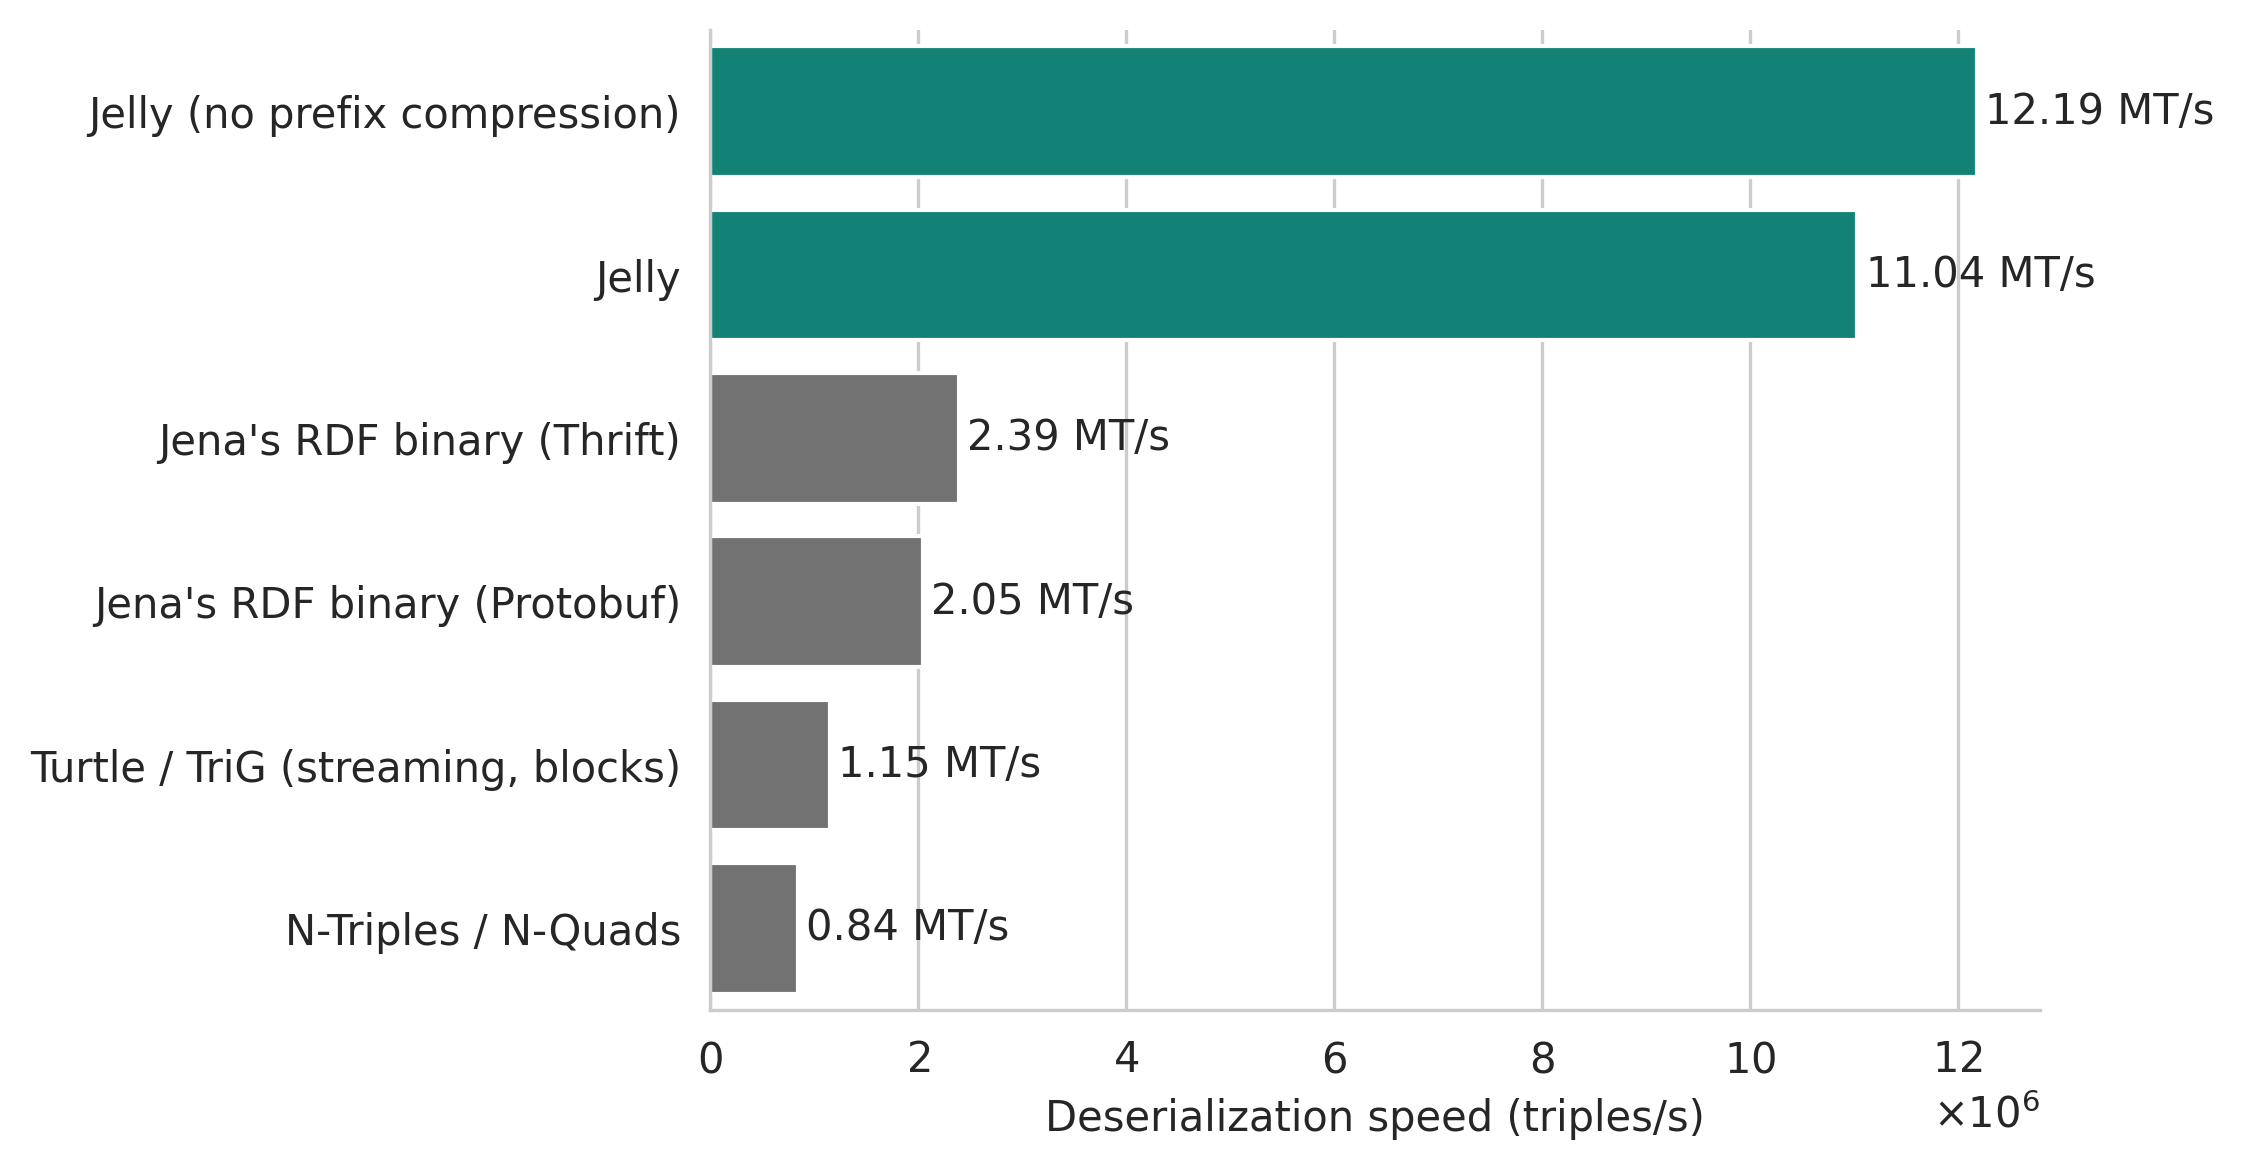
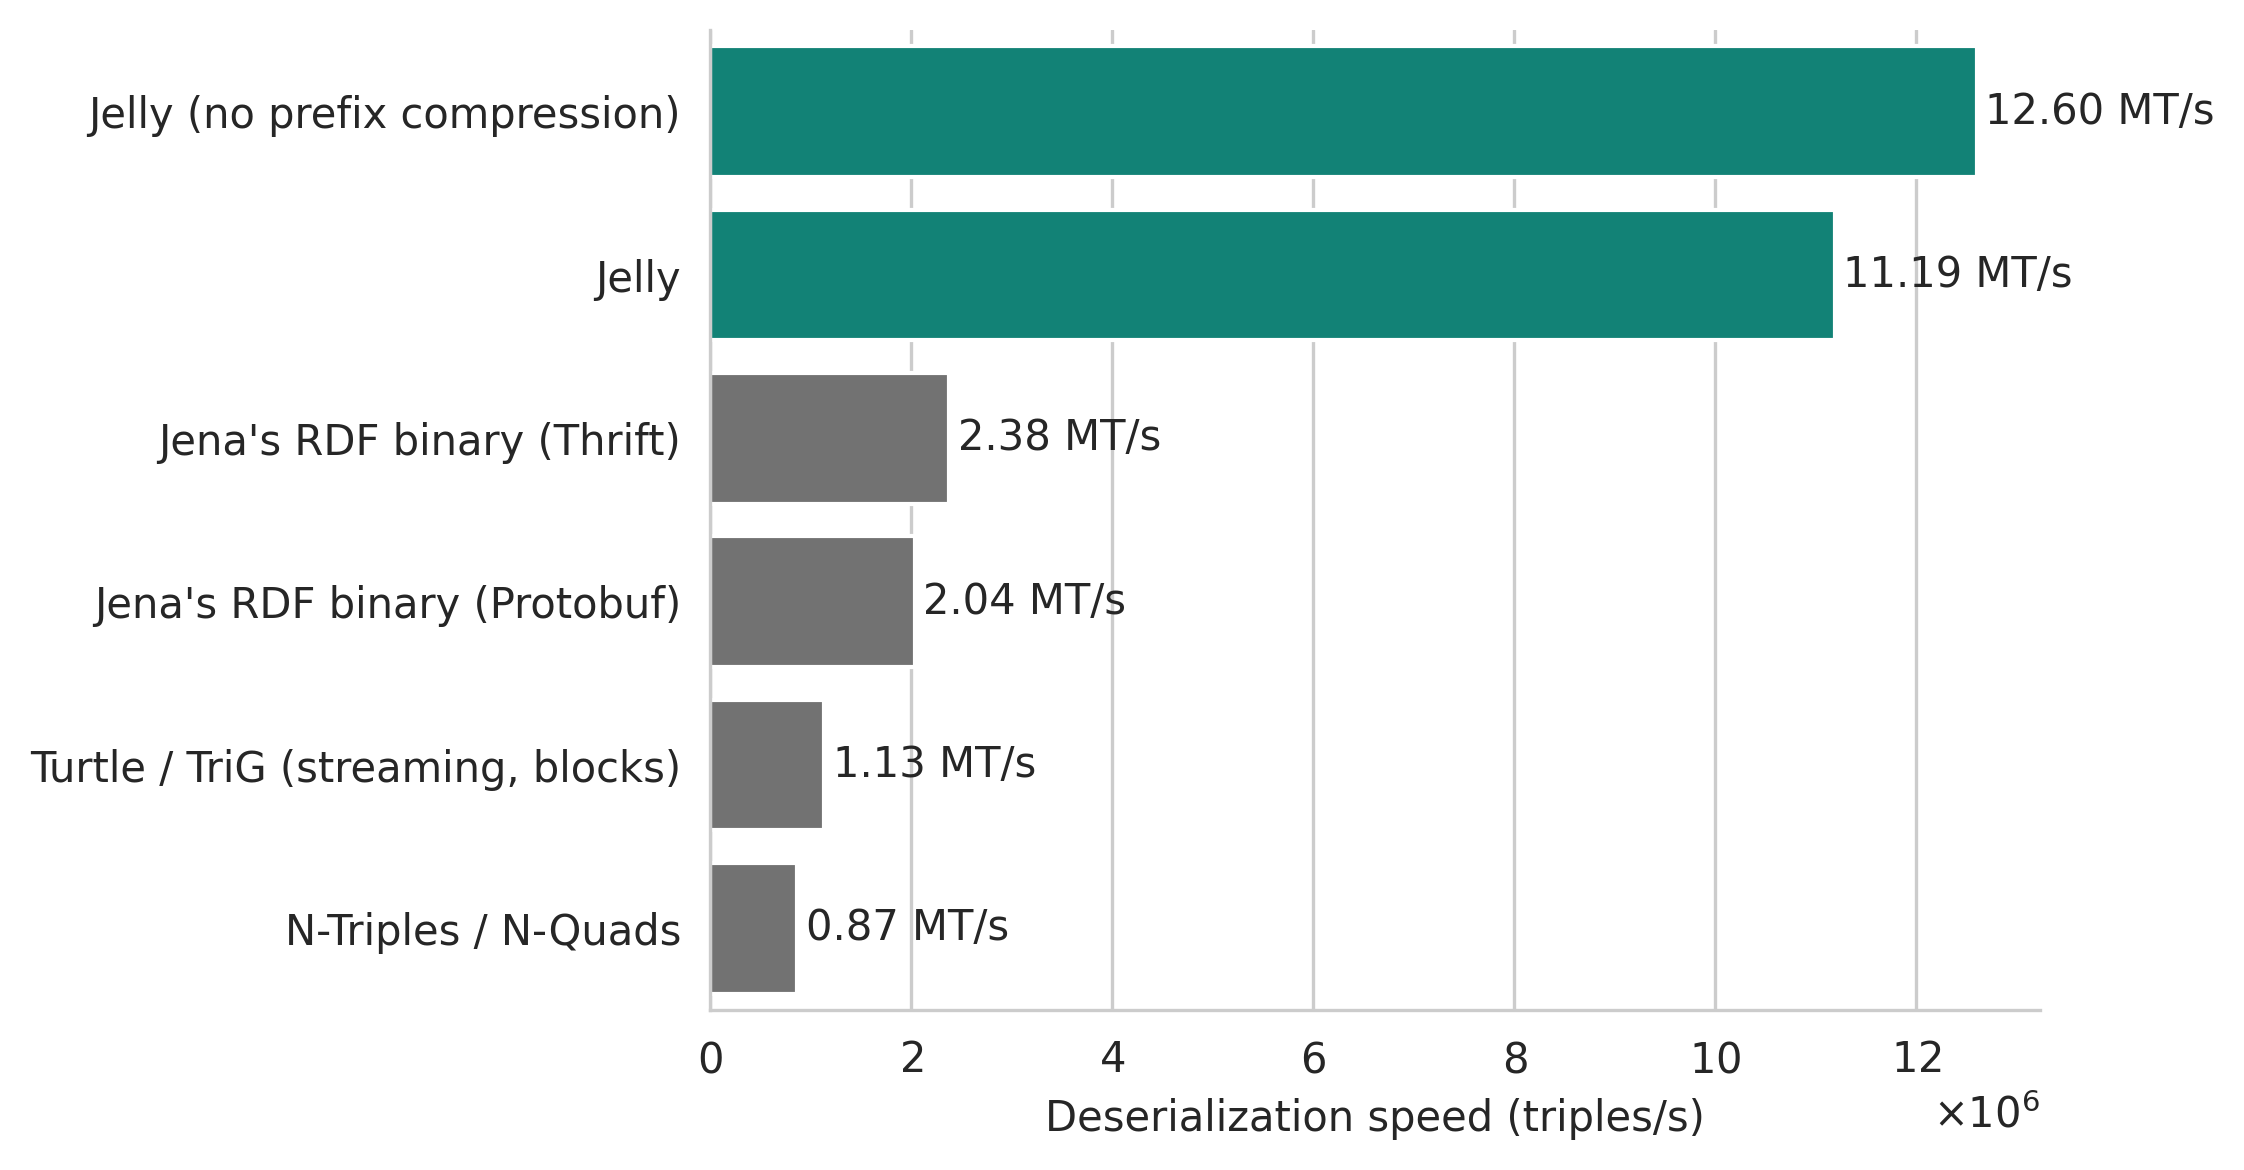
Updated benchmark results for Jelly-JVM 2.7.0

diff --git a/docs/performance/index.md b/docs/performance/index.md
@@ -15,31 +15,31 @@ If you are only interested in parsing/writing a single graph or dataset, look at
 
 All benchmarks presented here were performed using the [RiverBench benchmark suite, version 2.1.0](https://w3id.org/riverbench/v/2.1.0). Out of the 13 used datasets (all datasets available in RiverBench 2.1.0), 1 used RDF-star, and 3 included RDF quads/datasets. You can find the links to the specific used RiverBench profiles and tasks in the results below.
 
-The benchmarks were executed using [this code (Apache 2.0 license)](https://github.com/Jelly-RDF/jvm-benchmarks/tree/dd58f5de0916c1223ca115052567c1fb39f4cd62) in a JVM with options: `-Xms1G -Xmx32G`. The large heap size was necessary to fit the benchmark data in memory, making the benchmark independent of disk I/O.
+The benchmarks were executed using [this code (Apache 2.0 license)](https://github.com/Jelly-RDF/jvm-benchmarks/tree/281538515d3c93d7126da657df82284590dfb2df) in a JVM with options: `-Xms1G -Xmx32G`. The large heap size was necessary to fit the benchmark data in memory, making the benchmark independent of disk I/O.
 
 Hardware: AMD Ryzen 9 7900 (12-core, 24-thread, 5.0 GHz); 64 GB RAM (DDR5 5600 MT/s). The disk was not used during the benchmarks (all data was in memory). The throughput benchmarks are single-threaded, but the JVM was allowed to use all available cores for garbage collection, JIT compilation, and other tasks.
 
-Software: Linux kernel 6.10.11, Oracle GraalVM 23.0.1+11.1, Apache Jena 5.2.0, Eclipse RDF4J 5.0.2, [Jelly-JVM]({{ jvm_link() }}) 2.2.2.
+Software: Linux kernel 6.10.11, Oracle GraalVM 23.0.2+7.1, Apache Jena 5.3.0, Eclipse RDF4J 5.1.2, [Jelly-JVM]({{ jvm_link() }}) 2.7.0.
 
 ### Tested methods
 
-- W3C RDF/XML (Apache Jena 5.2.0, `RDFXML_PLAIN`)
-- W3C N-Triples / N-Quads (Apache Jena 5.2.0, `NTRIPLES` and `NQUADS`)
-- W3C JSON-LD (Apache Jena 5.2.0, `JSONLD_PLAIN`)
-- W3C Turtle / TriG (Apache Jena 5.2.0)
+- W3C RDF/XML (Apache Jena 5.3.0, `RDFXML_PLAIN`)
+- W3C N-Triples / N-Quads (Apache Jena 5.3.0, `NTRIPLES` and `NQUADS`)
+- W3C JSON-LD (Apache Jena 5.3.0, `JSONLD_PLAIN`)
+- W3C Turtle / TriG (Apache Jena 5.3.0)
     - In grouped streaming, the default (`TURTLE_PRETTY` and `TRIG_PRETTY`) Turtle/TriG variant was used. 
     - In flat streaming, the `TURTLE_BLOCKS` and `TRIG_BLOCKS` variant was used. See [Jena's documentation on streaming writers for more details](https://jena.apache.org/documentation/io/streaming-io.html).
-- [Jena's RDF binary](https://jena.apache.org/documentation/io/rdf-binary.html) Protobuf format (Apache Jena 5.2.0, `RDF_PROTO`)
-- [Jena's RDF binary](https://jena.apache.org/documentation/io/rdf-binary.html) Thrift format (Apache Jena 5.2.0, `RDF_THRIFT`)
+- [Jena's RDF binary](https://jena.apache.org/documentation/io/rdf-binary.html) Protobuf format (Apache Jena 5.3.0, `RDF_PROTO`)
+- [Jena's RDF binary](https://jena.apache.org/documentation/io/rdf-binary.html) Thrift format (Apache Jena 5.3.0, `RDF_THRIFT`)
 - [RDF4J Binary RDF Format](https://rdf4j.org/documentation/reference/rdf4j-binary/) (Eclipse RDF4J 5.0.2, `BINARY`)
     - *Note: to avoid confusion, on this page we only show the performance results for Apache Jena. The results for RDF4J can be found here: [RDF4J performance](rdf4j.md).*
-- Jelly (Jelly-JVM 2.2.2, "big" preset)
+- Jelly (Jelly-JVM 2.7.0, "big" preset)
     ```protobuf
     max_name_table_size = 4000;
     max_prefix_table_size = 150;
     max_datatype_table_size = 32;
     ```
-- Jelly without prefix compression (Jelly-JVM 2.2.2, "big" preset with prefix table disabled)
+- Jelly without prefix compression (Jelly-JVM 2.7.0, "big" preset with prefix table disabled)
     ```protobuf
     max_name_table_size = 4000;
     max_prefix_table_size = 0;  // Prefix table disabled
@@ -146,7 +146,7 @@ When reviewing these results, it's important to remember that Jelly is faster th
 ## See also
 
 - **[Benchmarks with RDF4J](rdf4j.md)**
-- [Benchmark code](https://github.com/Jelly-RDF/jvm-benchmarks/tree/dd58f5de0916c1223ca115052567c1fb39f4cd62)
+- [Benchmark code](https://github.com/Jelly-RDF/jvm-benchmarks/tree/281538515d3c93d7126da657df82284590dfb2df)
 - [RiverBench benchmark suite](https://w3id.org/riverbench/)
 - [Jelly-JVM]({{ jvm_link() }}) – the Jelly implementation used in the benchmarks
 - [User guide](../user-guide.md)

diff --git a/docs/performance/rdf4j.md b/docs/performance/rdf4j.md
@@ -13,7 +13,7 @@ If you are only interested in parsing/writing a single graph or dataset, look at
 
 ## Benchmark setup
 
-The same methodology was used as in the [Apache Jena benchmarks](index.md), with the same datasets and the same setup. The benchmark was performed with Jelly-JVM 2.2.2 and RDF4J 5.0.2.
+The same methodology was used as in the [Apache Jena benchmarks](index.md), with the same datasets and the same setup. The benchmark was performed with Jelly-JVM 2.7.0 and RDF4J 5.1.2.
 
 ## Results
 
@@ -84,7 +84,7 @@ Flat streaming serialization is admittedly the one scenario where Jelly is prett
 ## See also
 
 - **[Benchmarks with Jena](index.md)**
-- [Benchmark code](https://github.com/Jelly-RDF/jvm-benchmarks/tree/dd58f5de0916c1223ca115052567c1fb39f4cd62)
+- [Benchmark code](https://github.com/Jelly-RDF/jvm-benchmarks/tree/281538515d3c93d7126da657df82284590dfb2df)
 - [RiverBench benchmark suite](https://w3id.org/riverbench/)
 - [Jelly-JVM]({{ jvm_link() }}) – the Jelly implementation used in the benchmarks
 - [User guide](../user-guide.md)

diff --git a/docs/index.md b/docs/index.md
@@ -46,7 +46,7 @@
 
 *Fast.* Jelly was specifically designed to serialize and deserialize streams of RDF data faster than N-Triples or other binary formats, while being [more compact than Turtle](performance/index.md#grouped-streaming-serialized-size).
 
-The benchmarks below were performed on streams of RDF graphs or datasets, but Jelly is also good at handling streams of triples or quads ("classic" serialization). The benchmark was performed with Jelly-JVM 2.2.2 with Apache Jena 5.2.0. See: **[more benchmark results and details about the benchmark setup](performance/index.md)**.
+The benchmarks below were performed on streams of RDF graphs or datasets, but Jelly is also good at handling streams of triples or quads ("classic" serialization). The benchmark was performed with Jelly-JVM 2.7.0 with Apache Jena 5.3.0. See: **[more benchmark results and details about the benchmark setup](performance/index.md)**.
 
 <figure markdown="span">
   ![Serialization speed bar plot](assets/benchmarks/grouped_ser.png){ width="100%" }
